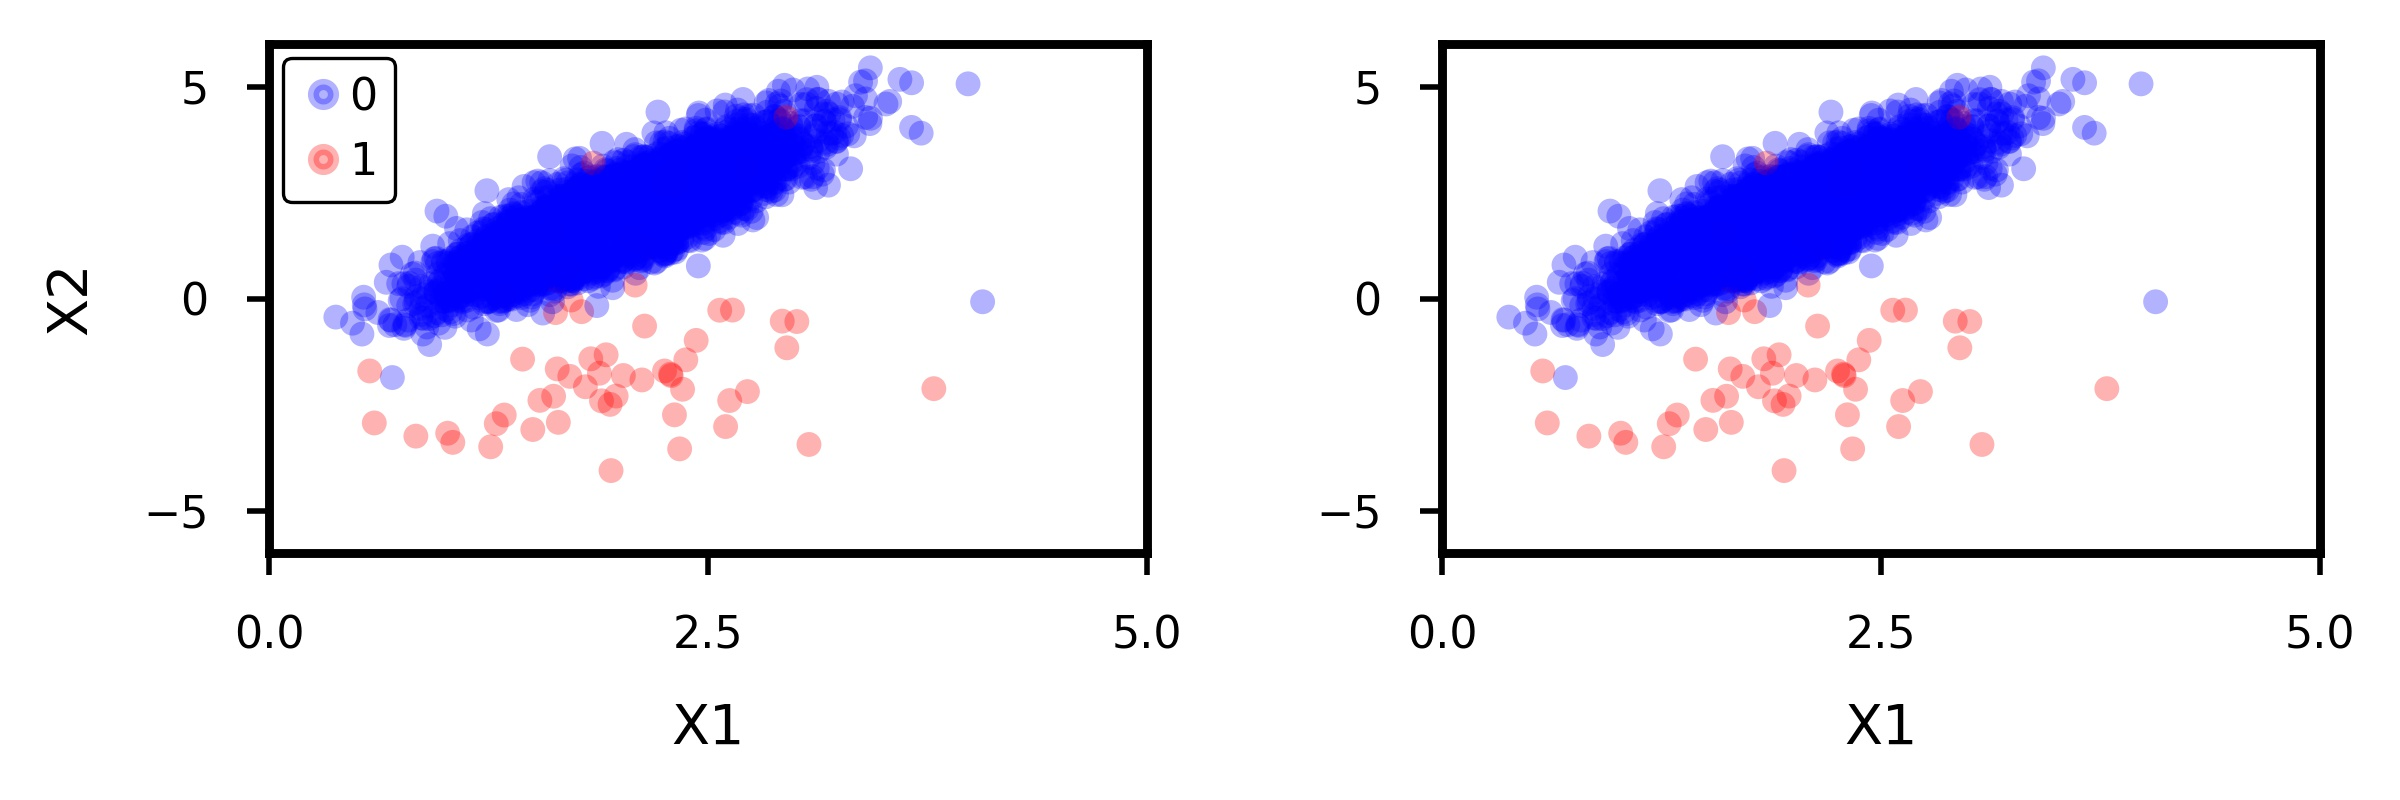
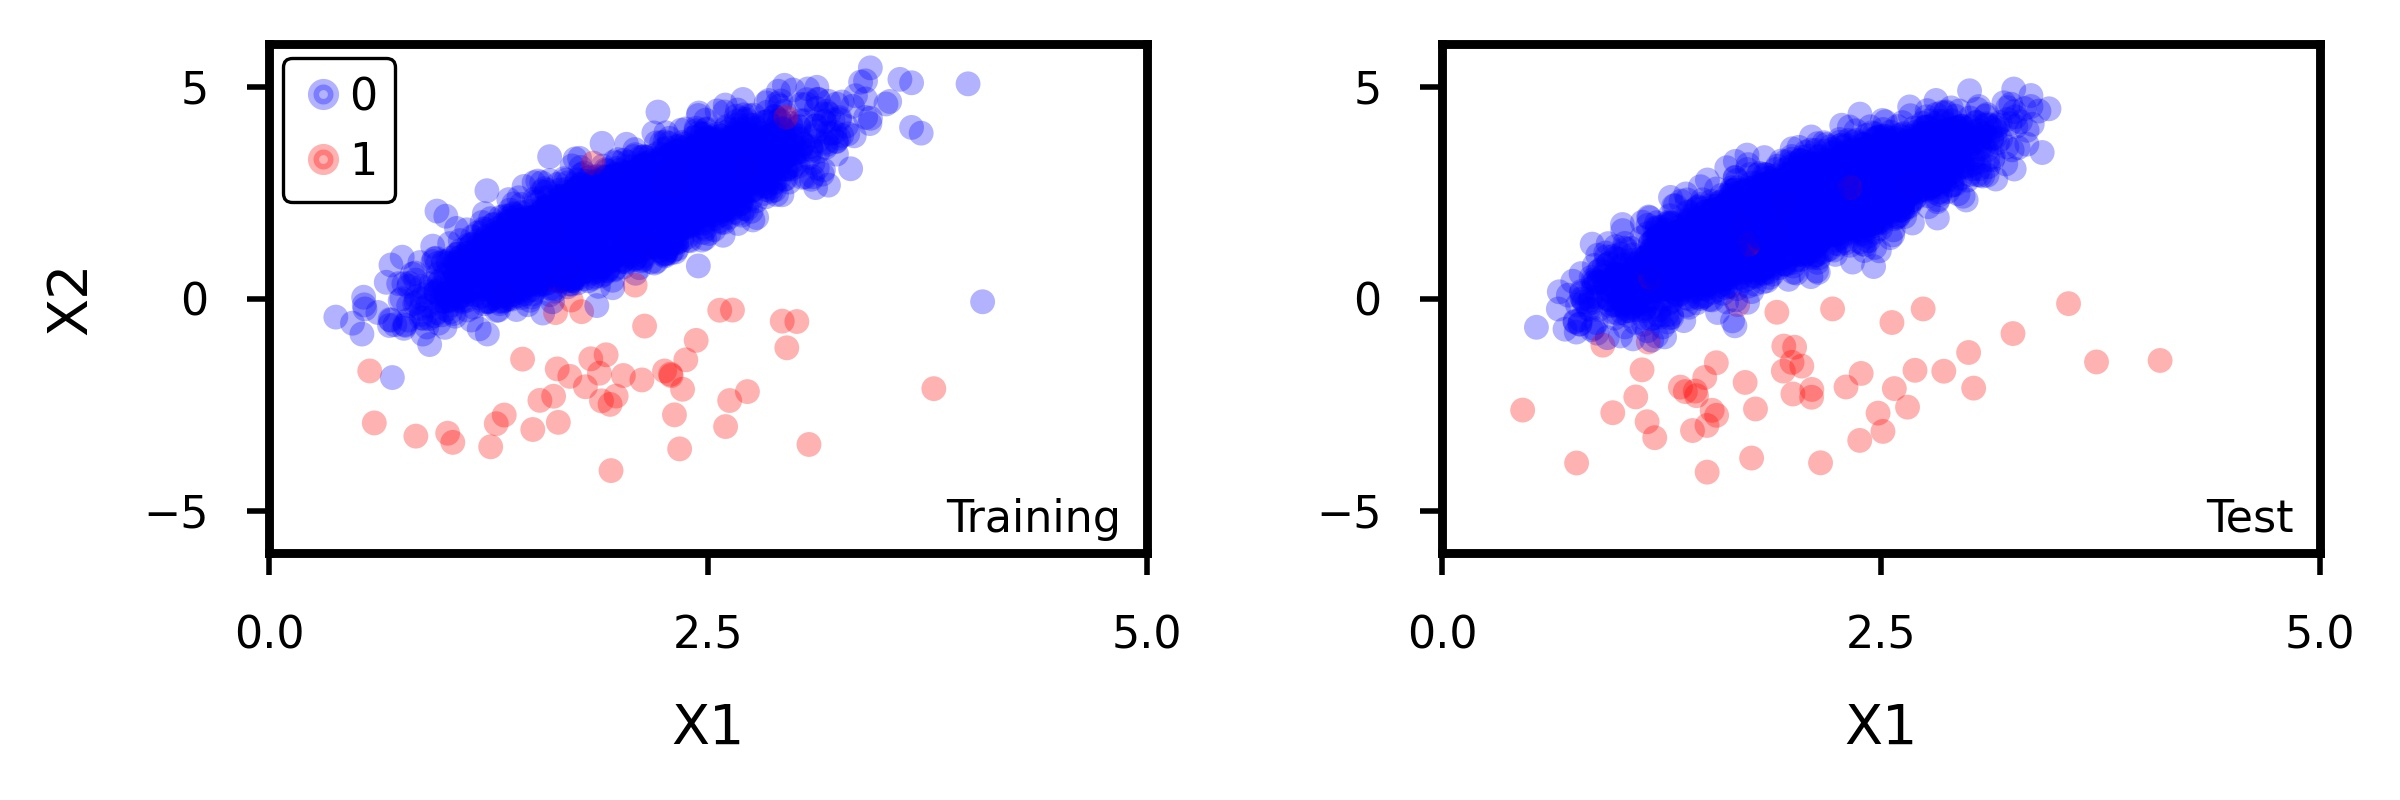
Miscellaneous fixes 15
Fixed a minor issue with the base data scatterplots displaying the training set twice. Also added text to differentiate training and test sets.

Changed region(s): [[0.625, 0.0625, 0.9062, 0.5938], [0.375, 0.625, 0.4688, 0.6875], [0.9062, 0.625, 0.9688, 0.6562]]

diff --git a/ImbalancedLearning.py b/ImbalancedLearning.py
@@ -77,8 +77,10 @@ def plot_scatter(d_x, d_y, fontsize = 10, legend = True, x1lab = True, x2lab = T
 fig = pyplot.figure(figsize = (3, 1), dpi = 800)
 ax = pyplot.subplot(1, 2, 1)
 plot_scatter(d_x = train_x, d_y = train_y, fontsize = 4)
+ax.text(4.85, -5.5, "Training", fontsize = 4, horizontalalignment = "right")
 ax = pyplot.subplot(1, 2, 2)
-plot_scatter(d_x = train_x, d_y = train_y, x2lab = False, legend = False)
+plot_scatter(d_x = test_x, d_y = test_y, x2lab = False, legend = False)
+ax.text(4.85, -5.5, "Test", fontsize = 4, horizontalalignment = "right")
 pyplot.tight_layout(pad = 0.4, w_pad = 1.2, h_pad = 1.0)
 pyplot.savefig("Plot_Pts.jpeg", dpi = 800, facecolor = "white")
 
